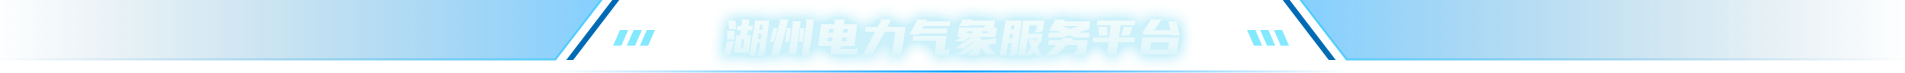
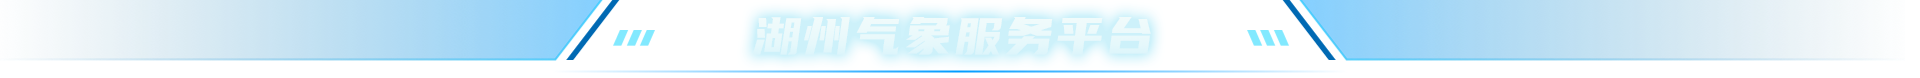
电力修复

Changed region(s): [[0.031, 0.0, 0.9911, 0.8493], [0.3097, 0.8767, 0.7123, 1.0]]

diff --git a/index.html b/index.html
@@ -3,7 +3,7 @@
   <head>
     <meta charset="UTF-8" />
     <meta name="viewport" content="width=device-width, initial-scale=1.0" />
-    <title>湖州电力气象服务平台</title>
+    <title>湖州气象服务平台</title>
   </head>
   <body>
     <div id="app"></div>
